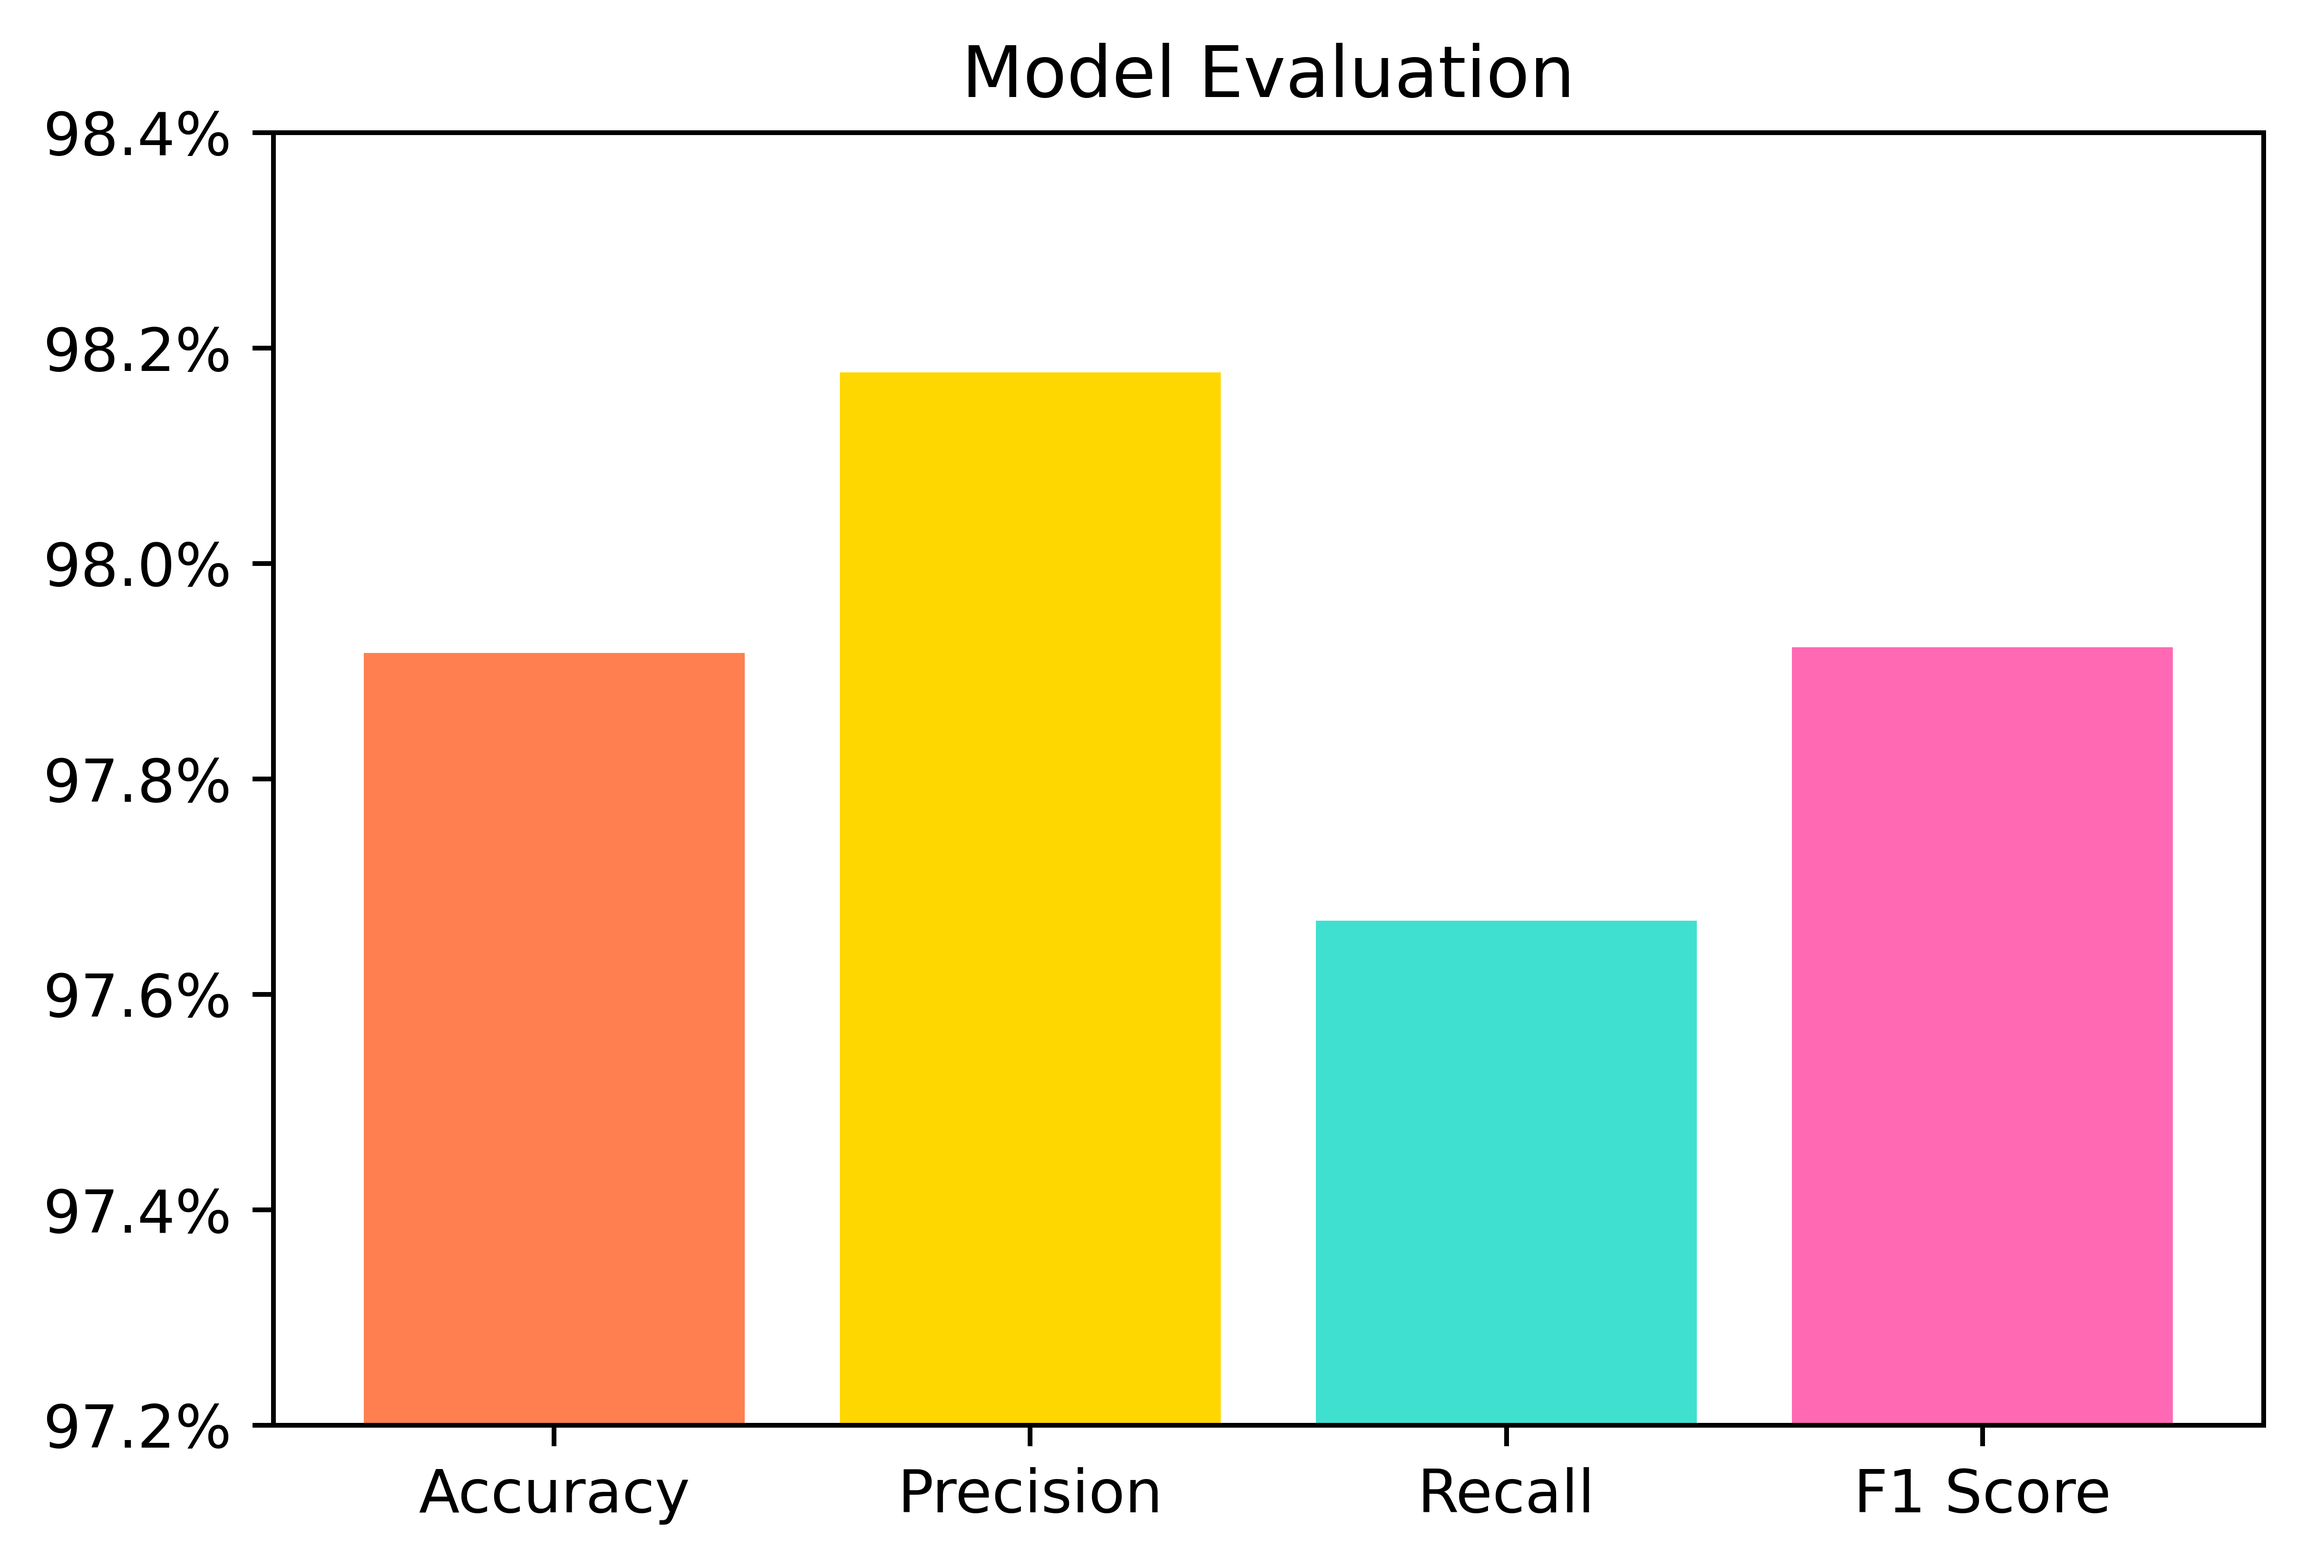
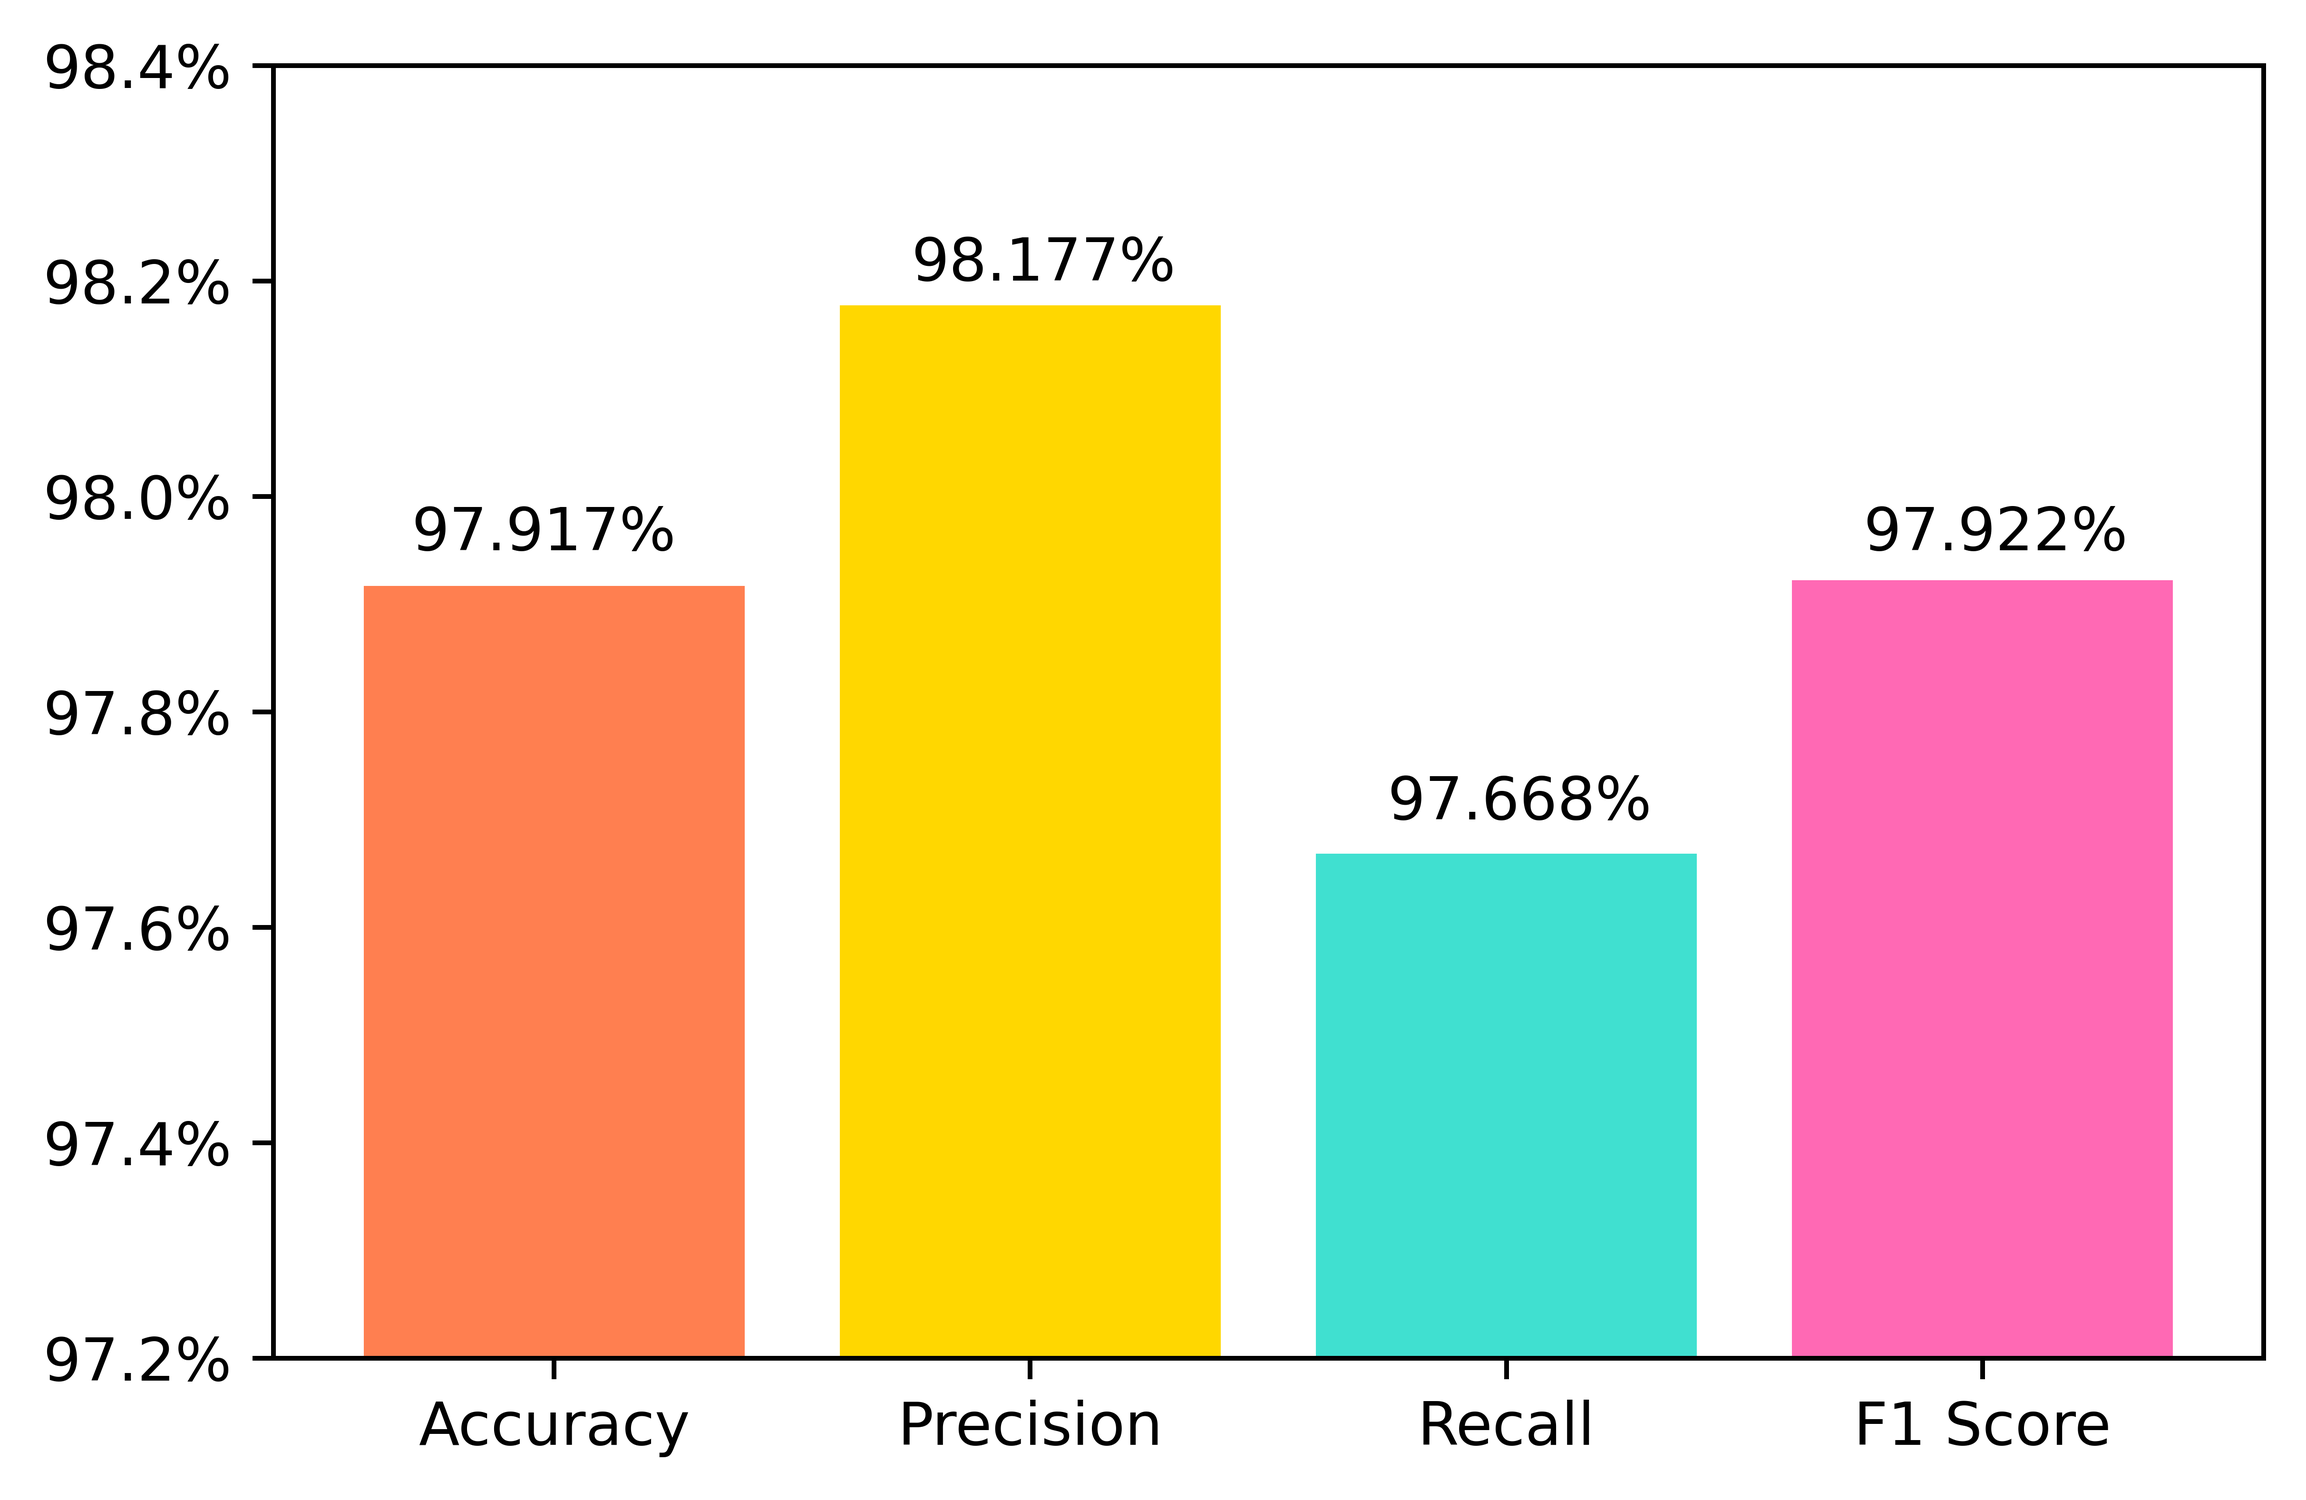
update: improve image

diff --git a/verificaiton.py b/verificaiton.py
@@ -65,11 +65,11 @@ with open("./result/verification_torch_{}.log".format(torch.__version__), "w") a
             
             for index in range(batch_size):
                 if (labels[index] == predicted[index]).item():
-                    if predicted[index] == 1: confusion_martix[1, 1] = confusion_martix[1, 1] + 1
-                    if predicted[index] == 0: confusion_martix[0, 0] = confusion_martix[0, 0] + 1
+                    if predicted[index] == 1: confusion_martix[1, 1] = confusion_martix[1, 1] + 1 # TN
+                    if predicted[index] == 0: confusion_martix[0, 0] = confusion_martix[0, 0] + 1 # TP
                 else:
-                    if predicted[index] == 1: confusion_martix[1, 0] = confusion_martix[1, 0] + 1
-                    if predicted[index] == 0: confusion_martix[0, 1] = confusion_martix[0, 1] + 1
+                    if predicted[index] == 1: confusion_martix[1, 0] = confusion_martix[1, 0] + 1 # FP
+                    if predicted[index] == 0: confusion_martix[0, 1] = confusion_martix[0, 1] + 1 # FN
             
             log = "index: {}/{}\n".format(i+1, len_index)
             print(log)

diff --git a/Model_Evaluation.py b/Model_Evaluation.py
@@ -8,7 +8,7 @@ data = np.asarray([0.9791666666666666, 0.9817708333333334, 0.9766839378238342, 0
 name_list = ["Accuracy", "Precision", "Recall", "F1 Score"]
 color_list = ["coral", "gold", "turquoise", "hotpink"]
 
-plt.title("Model Evaluation")
+# plt.title("Model Evaluation")
 
 plt.bar(range(len(data)), data, color=color_list, tick_label=name_list)
 plt.ylim(0.972, 0.984)
@@ -17,6 +17,10 @@ def to_percent(temp, position):
     return '%1.1f' % (100*temp) + '%'
 
 plt.gca().yaxis.set_major_formatter(ticker.FuncFormatter(to_percent))
-
+plt.text(-0.3, 0.9795, "{}%".format(round(data[0]*100, 3)))
+plt.text(0.75, 0.982, "{}%".format(round(data[1]*100, 3)))
+plt.text(1.75, 0.977, "{}%".format(round(data[2]*100, 3)))
+plt.text(2.75, 0.9795, "{}%".format(round(data[3]*100, 3)))
 plt.savefig("./images/Model Evaluation.png", dpi=900,  bbox_inches='tight')
 plt.show()
+
